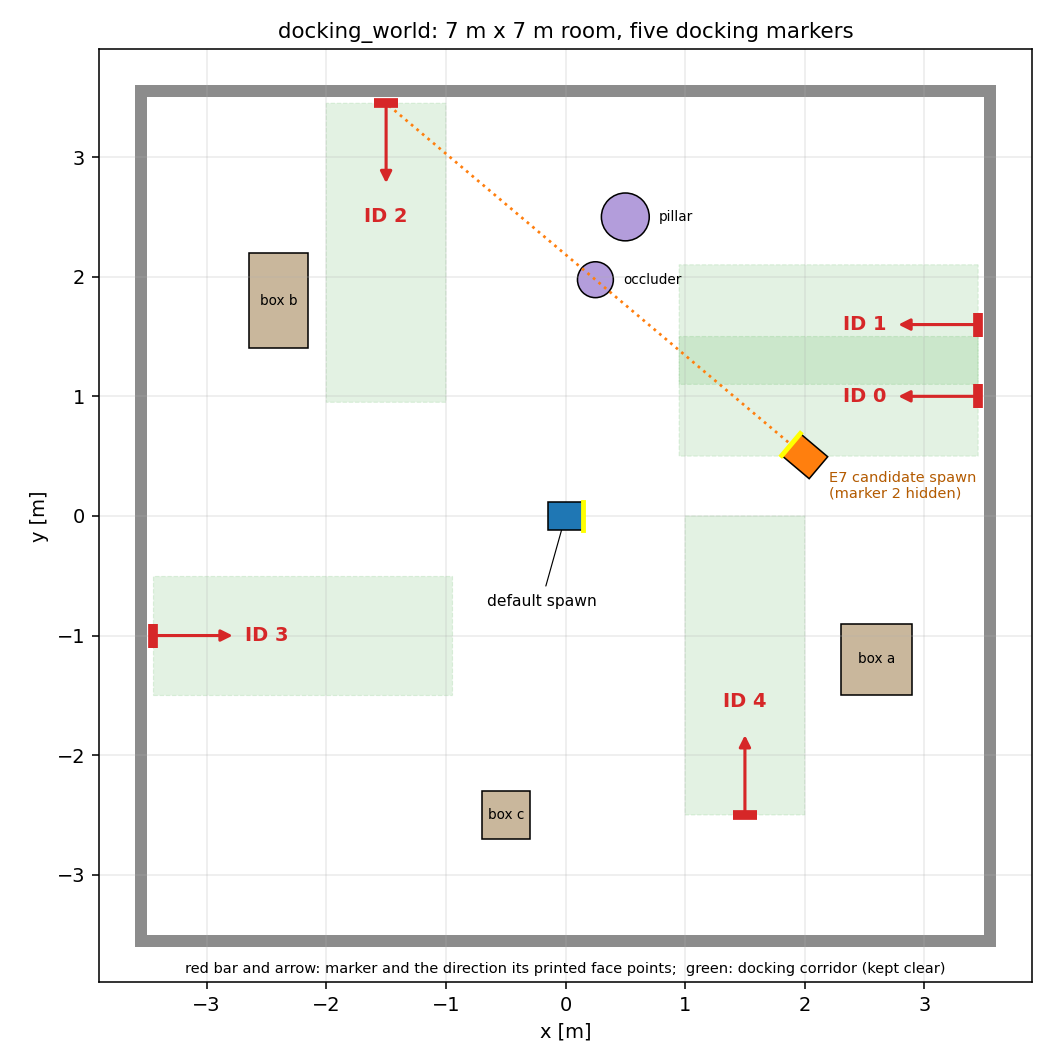
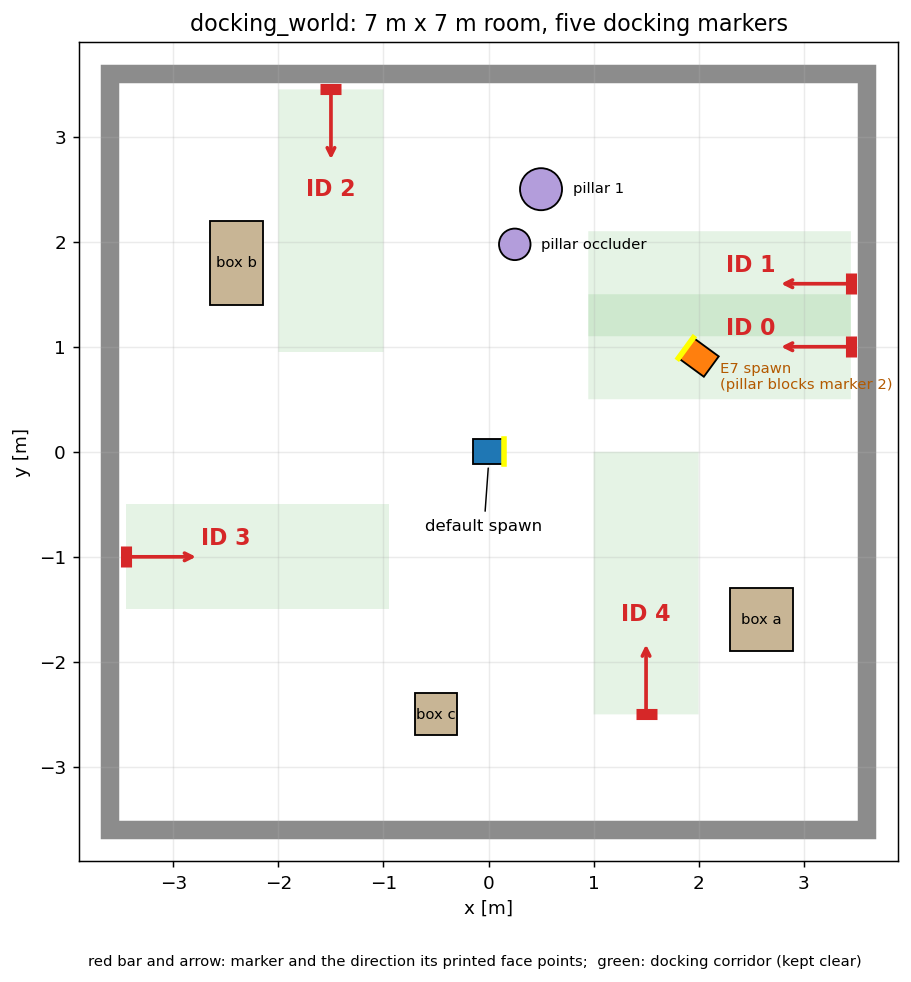
M6: review fixes (status wording, plan boxes, world image regenerated, descriptions, commands)

diff --git a/docs/images/world_layout.py b/docs/images/world_layout.py
@@ -1,0 +1,129 @@
+# Copyright 2026 Pavan Patil
+#
+# Licensed under the Apache License, Version 2.0 (the "License");
+# you may not use this file except in compliance with the License.
+# You may obtain a copy of the License at
+#
+#     http://www.apache.org/licenses/LICENSE-2.0
+#
+# Unless required by applicable law or agreed to in writing, software
+# distributed under the License is distributed on an "AS IS" BASIS,
+# WITHOUT WARRANTIES OR CONDITIONS OF ANY KIND, either express or implied.
+# See the License for the specific language governing permissions and
+# limitations under the License.
+
+"""Draw docs/images/world_layout.png from the world file, markers.yaml and the E7 scenario.
+
+Run from the repository root: python3 docs/images/world_layout.py. The figure is drawn from the
+same files the simulator and the tests read, so it cannot drift from the world as built.
+"""
+
+import math
+import os
+import xml.etree.ElementTree as ET
+
+import matplotlib
+matplotlib.use('Agg')
+import matplotlib.patches as patches  # noqa: E402
+import matplotlib.pyplot as plt  # noqa: E402
+import yaml  # noqa: E402
+
+ROOT = os.path.join(os.path.dirname(os.path.abspath(__file__)), '..', '..')
+GAZEBO = os.path.join(ROOT, 'src', 'dockbot_gazebo')
+CORRIDOR_WIDTH = 1.0   # m, kept clear in front of each marker
+CORRIDOR_LENGTH = 2.5  # m
+CHASSIS = (0.30, 0.24)  # m, length and width; base_link sits 0.15 m behind the front face
+
+
+def load_obstacles():
+    """Return the boxes and pillars of docking_world as dicts, read from the SDF."""
+    world = ET.parse(os.path.join(GAZEBO, 'worlds', 'docking_world.sdf')).getroot().find('world')
+    found = []
+    for model in world.findall('model'):
+        name = model.get('name')
+        if not name.startswith(('box', 'pillar')):
+            continue
+        pose = [float(v) for v in model.find('pose').text.split()]
+        shape = model.find('.//collision/geometry')[0]
+        item = {'name': name, 'x': pose[0], 'y': pose[1], 'kind': shape.tag}
+        if shape.tag == 'box':
+            item['size'] = [float(v) for v in shape.find('size').text.split()[:2]]
+        else:
+            item['r'] = float(shape.find('radius').text)
+        found.append(item)
+    return found
+
+
+def draw_robot(ax, x, y, yaw, color):
+    """Draw the chassis footprint at a pose, with its front face marked in yellow."""
+    length, width = CHASSIS
+    c, s = math.cos(yaw), math.sin(yaw)
+
+    def to_world(px, py):
+        return (x + c * px - s * py, y + s * px + c * py)
+
+    corners = [to_world(px, py) for px, py in
+               [(-0.15, -width / 2), (0.15, -width / 2), (0.15, width / 2), (-0.15, width / 2)]]
+    ax.add_patch(patches.Polygon(corners, closed=True, fc=color, ec='black', zorder=5))
+    front = [to_world(0.15, -width / 2), to_world(0.15, width / 2)]
+    ax.plot([front[0][0], front[1][0]], [front[0][1], front[1][1]], color='yellow', lw=3, zorder=6)
+
+
+def main():
+    """Build the figure and save it next to this script."""
+    with open(os.path.join(GAZEBO, 'config', 'markers.yaml')) as f:
+        markers = yaml.safe_load(f)['markers']
+    with open(os.path.join(ROOT, 'src', 'dockbot_bringup', 'config', 'scenarios',
+                           'e07_occluded.yaml')) as f:
+        e7 = yaml.safe_load(f)['spawn']
+    fig, ax = plt.subplots(figsize=(8, 8), dpi=133)
+    ax.set_aspect('equal')
+    ax.set_xlim(-3.9, 3.9)
+    ax.set_ylim(-3.9, 3.9)
+    ax.grid(alpha=0.25)
+    ax.set_xlabel('x [m]')
+    ax.set_ylabel('y [m]')
+    ax.set_title('docking_world: 7 m x 7 m room, five docking markers')
+    ax.add_patch(patches.Rectangle((-3.6, -3.6), 7.2, 7.2, fill=False, ec='#8c8c8c', lw=10))
+    for mid, m in sorted(markers.items()):
+        yaw = m['yaw']
+        nx, ny = math.cos(yaw), math.sin(yaw)
+        # Corridor: CORRIDOR_WIDTH wide, CORRIDOR_LENGTH long, along the face's normal.
+        corners = [(m['x'] + sx * -ny * CORRIDOR_WIDTH / 2 + ln * nx * CORRIDOR_LENGTH,
+                    m['y'] + sx * nx * CORRIDOR_WIDTH / 2 + ln * ny * CORRIDOR_LENGTH)
+                   for sx, ln in [(-1, 0), (1, 0), (1, 1), (-1, 1)]]
+        ax.add_patch(patches.Polygon(corners, closed=True, fc='#2ca02c', alpha=0.12, ec='none'))
+        ax.plot([m['x'] - ny * 0.1, m['x'] + ny * 0.1], [m['y'] + nx * 0.1, m['y'] - nx * 0.1],
+                color='#d62728', lw=6, solid_capstyle='butt', zorder=4)
+        ax.annotate('', xy=(m['x'] + nx * 0.7, m['y'] + ny * 0.7), xytext=(m['x'], m['y']),
+                    arrowprops={'arrowstyle': '->', 'color': '#d62728', 'lw': 2}, zorder=4)
+        ax.text(m['x'] + nx * 0.95, m['y'] + ny * 0.95 + (0.18 if abs(ny) < 0.5 else 0.0),
+                'ID %d' % mid, color='#d62728', fontsize=12, fontweight='bold',
+                ha='center', va='center')
+    for o in load_obstacles():
+        if o['kind'] == 'box':
+            w, h = o['size']
+            ax.add_patch(patches.Rectangle((o['x'] - w / 2, o['y'] - h / 2), w, h,
+                                           fc='#c8b595', ec='black', zorder=3))
+            ax.text(o['x'], o['y'], o['name'].replace('_', ' '), ha='center', va='center',
+                    fontsize=8, zorder=4)
+        else:
+            ax.add_patch(patches.Circle((o['x'], o['y']), o['r'], fc='#b39ddb', ec='black',
+                                        zorder=3))
+            ax.text(o['x'] + o['r'] + 0.1, o['y'], o['name'].replace('_', ' '),
+                    fontsize=8, va='center')
+    draw_robot(ax, 0.0, 0.0, 0.0, '#1f77b4')
+    ax.annotate('default spawn', xy=(0, -0.12), xytext=(-0.6, -0.75), fontsize=9,
+                arrowprops={'arrowstyle': '-', 'lw': 0.8})
+    draw_robot(ax, e7['x'], e7['y'], e7['yaw'], '#ff7f0e')
+    ax.text(e7['x'] + 0.2, e7['y'] - 0.3, 'E7 spawn\n(pillar blocks marker 2)', fontsize=8,
+            color='#b35900')
+    fig.text(0.5, 0.012, 'red bar and arrow: marker and the direction its printed face points;  '
+             'green: docking corridor (kept clear)', ha='center', fontsize=8)
+    out = os.path.join(os.path.dirname(os.path.abspath(__file__)), 'world_layout.png')
+    fig.savefig(out, bbox_inches='tight')
+    print('wrote', os.path.normpath(out))
+
+
+if __name__ == '__main__':
+    main()

diff --git a/src/dockbot_docking/test/test_state_machine.cpp b/src/dockbot_docking/test/test_state_machine.cpp
@@ -55,6 +55,7 @@ Eigen::Isometry3d pose_at(double d, double e_y)
 /// Drives a state machine with a fake clock and scripted detections.
 struct Harness
 {
+  /// Create a machine with pose smoothing off, so scripted poses reach the control law as is.
   explicit Harness(MachineParams p = MachineParams())
   : machine((p.pose_filter_alpha = 1.0, p)) {}
 
@@ -93,6 +94,7 @@ struct Harness
   StepOutput last;
 };
 
+/// Build a docking request for the test marker; zero means use the machine's own setting.
 GoalRequest goal(double dock_distance = 0.0, double timeout = 0.0)
 {
   GoalRequest g;

diff --git a/src/dockbot_docking/test/test_controller_node.cpp b/src/dockbot_docking/test/test_controller_node.cpp
@@ -44,6 +44,7 @@ namespace
 /// Node, executor, action client and state recorder, run in one thread like the real node.
 struct Fixture
 {
+  /// Start the controller node and a helper that sends goals and records its output.
   explicit Fixture(bool sim_time = false)
   {
     rclcpp::NodeOptions options;

diff --git a/README.md b/README.md
@@ -4,7 +4,7 @@ A ROS 2 Jazzy and Gazebo Harmonic simulation in which a differential-drive robot
 
 **Pipeline:** camera image → ArUco detector → marker pose relative to the robot → docking controller → `cmd_vel`. The robot stops with its front face 10 cm from the marker plane.
 
-**Status:** the full pipeline works. In Gazebo the robot finds the marker it was asked for among five, drives to it and stops with its front face within 2 cm of the 10 cm target, from several start poses and with a second marker in view. The end-to-end suite (E1 to E12), the unit tests and the Docker services all pass. What remains is documentation polish and optional extras; see [docs/plan/README.md](docs/plan/README.md).
+**Status:** the full pipeline works. In Gazebo the robot finds the marker it was asked for among five, drives to it and stops with its front face within 2 cm of the 10 cm target, from several start poses and with a second marker in view. The end-to-end suite (E1 to E12) passed in three consecutive full runs, the unit tests pass, and the Docker services were run on one machine. [docs/test_plan.md](docs/test_plan.md) lists what each run covered and which checks were not run (a clean `--no-cache` build, a second machine). Optional extras remain; see [docs/plan/README.md](docs/plan/README.md).
 
 ## What it looks like
 
@@ -62,14 +62,14 @@ colcon build --symlink-install
 source install/setup.bash
 
 # fast tests (no simulator)
-colcon test --packages-select dockbot_perception dockbot_docking dockbot_gazebo dockbot_description
+colcon test --executor sequential --packages-select dockbot_perception dockbot_docking dockbot_gazebo dockbot_description
 colcon test-result --verbose
 
 # end-to-end tests E1 to E12 in headless Gazebo (about 20 minutes; one simulator per scenario)
 colcon test --packages-select dockbot_bringup
 ```
 
-Run the packages' tests one package at a time when `dockbot_bringup` is included: its tests start a simulator on the same ROS domain and disturb the others if they run together. Required packages are listed in [docs/setup.md](docs/setup.md). Use the system OpenCV (4.6 on Ubuntu 24.04); do not install another copy.
+Packages are tested one at a time (`--executor sequential`) because their node tests share one ROS domain and disturb each other when they run together; `dockbot_bringup` starts a full simulator, so always test it on its own. Required packages are listed in [docs/setup.md](docs/setup.md). Use the system OpenCV (4.6 on Ubuntu 24.04); do not install another copy.
 
 ## Run the demo
 

diff --git a/docs/world_and_robot.md b/docs/world_and_robot.md
@@ -1,6 +1,6 @@
 # World and robot model
 
-Dimensions here are the design targets. The Xacro, the world file, and `config/markers.yaml` are authoritative once they exist; keep this document in step with them.
+The Xacro, the world file and `config/markers.yaml` are authoritative; this document was checked against them (M6), and must be kept in step when they change.
 
 ## Robot: `dockbot`
 
@@ -110,7 +110,7 @@ Markers sit on 0.05 m thick plates. Walls carry markers 0 to 3 directly. Marker 
 
 `pillar_occluder` lies on the line of sight from (2.0, 0.5) to marker 2. A robot placed at (2.0, 0.5) with yaw 2.44 rad does not see marker 2 (checked with plain OpenCV detection on a camera frame), while from the default spawn at the origin the marker is visible. That pose never sees marker 2, so it cannot test an interruption during approach. The E7 spawn is (2.0, 0.9) with yaw 2.51 rad: marker 2 is in view at the start, the robot approaches, the pillar then blocks the view, and the goal ends `TARGET_LOST` with the robot stopped and clear of every obstacle. A start at (2.2, 1.0) with yaw 2.45 rad showed the limit of a controller without obstacle sensing: it alternated between search and approach until the timeout and passed within about 1 cm of `pillar_1`.
 
-The obstacle `box_a` was moved from (2.6, -1.2) to (2.6, -1.6) in M5. From the dock in front of marker 4 the line of sight to marker 0 passed through its corner, which made test E12 (marker 4, then marker 0) impossible. (`images/world_layout.png` still shows the old position.)
+The obstacle `box_a` was moved from (2.6, -1.2) to (2.6, -1.6) in M5. From the dock in front of marker 4 the line of sight to marker 0 passed through its corner, which made test E12 (marker 4, then marker 0) impossible. The plan view above is drawn from the world file by `images/world_layout.py`, so it shows the current layout.
 
 The default spawn sees every marker by turning in place, and each is detected by plain OpenCV on a camera frame. Marker plates are white, but the scene is lit with ambient light of 0.9, so they render light grey; detection is unaffected.
 

diff --git a/docs/architecture.md b/docs/architecture.md
@@ -8,7 +8,7 @@ These were checked on the development machine and shape several choices below.
 
 | Item | Finding | Consequence |
 |---|---|---|
-| ROS and simulator | ROS 2 Jazzy on Ubuntu 24.04, Gazebo Harmonic (`gz sim` 8.15), `ros_gz_sim`, `ros_gz_bridge`, `ros_gz_image`, `xacro`, `robot_state_publisher`, `rviz2`, `colcon` | The core path needs no extra installs |
+| ROS and simulator | ROS 2 Jazzy on Ubuntu 24.04, Gazebo Harmonic (`gz sim` 8.15), `ros_gz_sim`, `ros_gz_bridge`, `ros_gz_image`, `xacro`, `robot_state_publisher`, `rviz2`, `colcon` | `rosdep install --from-paths src --ignore-src -y` installs everything the packages declare; see [setup.md](setup.md) |
 | OpenCV | 4.6.0 (`libopencv-dev`, `libopencv-contrib-dev`). Only the legacy ArUco API exists (`cv::aruco::detectMarkers`, `drawMarker`); `cv::aruco::ArucoDetector` does not. `SOLVEPNP_IPPE_SQUARE` is available | The detector wraps both API generations behind one function, selected at compile time, and estimates pose with `solvePnPGeneric` rather than `estimatePoseSingleMarkers`, which newer OpenCV removed |
 | C++ toolchain | g++ 13.3, CMake 3.28, Eigen 3.4, `rclcpp`, `rclcpp_action`, `rclcpp_components`, `cv_bridge`, `tf2_eigen`, `ament_cmake_gtest`, and the `ament_cmake` linters | Nodes can be built in C++ with nothing further to install |
 | Graphics | Intel UHD (Mesa) and an entry-level NVIDIA GeForce with 2 GB, in on-demand mode: programs render on Intel unless told to use NVIDIA. Both provide OpenGL 4.6 | Either GPU can run the simulator. The camera is modelled on an IMX219 at 1280x720 and 30 Hz, which is a real load for an entry-level card. M1 measures both GPUs and picks the default; the camera rate is a launch argument if neither holds 30 Hz. See [setup.md](setup.md) |

diff --git a/docs/interfaces.md b/docs/interfaces.md
@@ -11,7 +11,7 @@ Topics, actions, messages and parameters as built. The parameter defaults below 
 | `/aruco/markers` | `dockbot_interfaces/ArucoMarkerArray` | `aruco_detector` | `docking_controller` | One message per image, empty when nothing is seen. Poses in `base_link` |
 | `/aruco/debug_image` | `sensor_msgs/Image` | `aruco_detector` | RViz | Marker outlines, IDs, axes. Optional |
 | `/cmd_vel` | `geometry_msgs/TwistStamped` | `docking_controller` | `ros_gz_bridge` to DiffDrive | 20 Hz while a goal is active |
-| `/docking/state` | `dockbot_interfaces/DockingState` | `docking_controller` | RViz, tests | 20 Hz |
+| `/docking/state` | `dockbot_interfaces/DockingState` | `docking_controller` | tests, `ros2 topic echo` | 20 Hz while a goal is active; one IDLE message when it ends, then nothing. RViz has no display for this type |
 | `/odom` | `nav_msgs/Odometry` | `ros_gz_bridge` | RViz only | Not used for control |
 | `/joint_states` | `sensor_msgs/JointState` | `ros_gz_bridge` | `robot_state_publisher` | |
 | `/tf`, `/tf_static` | `tf2_msgs/TFMessage` | `robot_state_publisher`, bridge, `aruco_detector` | all | Detector adds `base_link -> aruco_<id>` |

diff --git a/docs/plan/M6_docs_demo.md b/docs/plan/M6_docs_demo.md
@@ -7,7 +7,7 @@
 ## Sub-tasks
 
 - [x] `README.md`: what the project is, prerequisites (apt packages), build, the one-command demo, how to send a goal to a different marker, how to run the tests, a screenshot or short clip.
-- [x] Bring [../architecture.md](../architecture.md) in line with the code: no "planned" wording, the trajectory plot from M4 is in. An RViz screenshot taken during a dock (`docs/images/rviz_docking.png`) is left for later.
+- [ ] Bring [../architecture.md](../architecture.md) in line with the code: no "planned" wording, the trajectory plot from M4 is in. An RViz screenshot taken during a dock (`docs/images/rviz_docking.png`) is left for later.
 - [x] Bring [../interfaces.md](../interfaces.md) in line: final parameter defaults, any topics added or dropped.
 - [x] Bring [../world_and_robot.md](../world_and_robot.md) in line: final obstacle layout, a top-down image of the world.
 - [x] Add the results table to [../test_plan.md](../test_plan.md).

diff --git a/docs/test_plan.md b/docs/test_plan.md
@@ -179,7 +179,7 @@ These prove the project runs on a machine that has only Docker. Details of the i
 
 ```bash
 # everything except Gazebo tests
-colcon test --packages-select dockbot_perception dockbot_docking dockbot_gazebo dockbot_description
+colcon test --executor sequential --packages-select dockbot_perception dockbot_docking dockbot_gazebo dockbot_description
 colcon test-result --verbose
 
 # end to end
